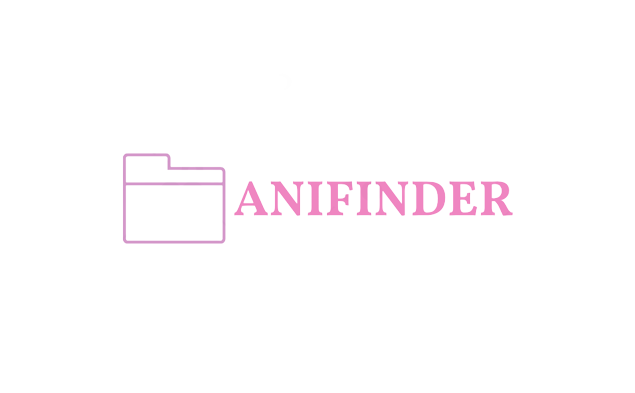
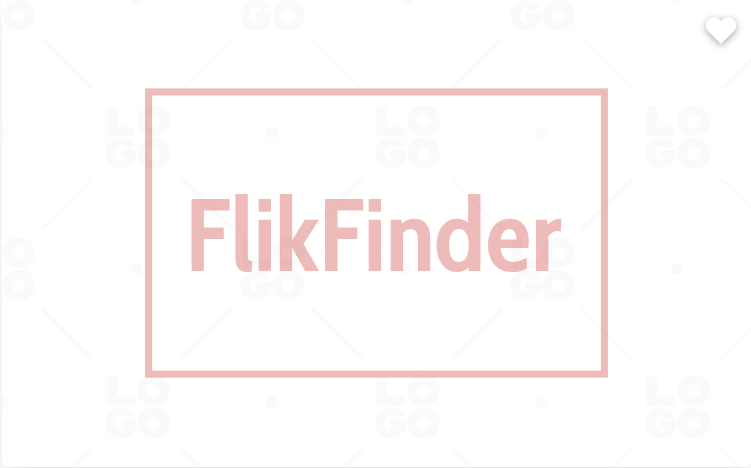
console log bringing up search function, working good, goota make it real now. chagned to movies, api was easier. gotta figure out poster integration too

Changed region(s): [[0.1795, 0.1832, 0.8079, 0.8244], [0.9276, 0.0611, 0.9874, 0.0916]]

diff --git a/index.html b/index.html
@@ -3,7 +3,7 @@
 <head>
     <meta charset="UTF-8">
     <meta name="viewport" content="width=device-width, initial-scale=1.0">
-    <title>Anime API</title>
+    <title>Movie API Proj</title>
     <script src="script.js"></script>
     <link rel="stylesheet" href="anime.css">
     
@@ -11,7 +11,7 @@
 <nav>
     <div class="row navbar__logo">
     <figure class="logo__picture--mask nav__logo">
-     <img src="./assets/Capture.PNG" class="logo__picture">
+     <img src="./assets/movlogo.PNG" class="logo__picture">
     </figure>
     
 </div>
@@ -19,7 +19,7 @@
 <div class="container__nav ">
     <ul class="nav__link--list">
         <li class="nav__li" ><a href="#home" class=" nav__link--anchor click">Home</a></li>
-        <Li class="nav__li" ><a href="#finder" class=" nav__link--anchor-primary click">Anime</a></Li>
+        <Li class="nav__li" ><a href="#finder" class=" nav__link--anchor-primary click">Movies</a></Li>
     </ul>
 </div>
 </div>
@@ -29,11 +29,11 @@
     <div class="container">
         <div class="finder__container">
             <div class="main__header--container">
-                <h1 class="main__header">The Anime Quote Finder Platform</h1>
-                <h2 class="main__subheader">Find Your Quote With <span class="highlight">AniFinder</span></h2>
+                <h1 class="main__header">The Movie Finder Platform</h1>
+                <h2 class="main__subheader">Find Your Flick With <span class="highlight">FLikFinder</span></h2>
             </div>
             <div class="finder__input--holder">
-                <input type="text" placeholder="Search by name, year, or genre" class="finder__input">
+                <input type="text" placeholder="Search by title, year, or genre" class="finder__input" onchange="onSearchChange(event)" id="searchbox">
             <button class="finder__search">🔍</button>
             </div>
     </div>
@@ -42,10 +42,7 @@
 </section>
 
 <section>
-    <div class="container">
-        <button class="random__quote"onclick="randomQuote(event)"> Random </button>
 
-</div>
     <div class="container">
         <div class="row">
           <div class="user-list">
@@ -53,9 +50,9 @@
               <div class="user-card">
                 <div class="user-card__container">
                   <h3>User's Name</h4>
-                    <p><b>Anime:</b> anime</p>
-                    <p><b>Character:</b> character</p>
-                    <p><b>quote:</b> quote</p>
+                    <p><b>Title:</b> Title</p>
+                    <p><b>Rating:</b> rating</p>
+                    <p><b>year:</b> ear</p>
                 </div>
               </div>
             </div>
@@ -67,13 +64,13 @@
 <div class="chibi__container ">
     <div class="chibi__inner">
     <div class="goku">
-        <img src="assets/goku.png" alt="" class="goku__pic">
+        <img src="assets/barbie.png" alt="" class="goku__pic">
     </div>
     <div class="naruto">
-        <img src="assets/naruto.png" alt="" class="naruto__pic">
+        <img src="assets/oppenheimer.jpeg" alt="" class="naruto__pic">
     </div>
     <div class="luffy">
-        <img src="assets/luffy.png" alt=""class="luffy__pic">
+        <img src="assets/miles.jpg" alt=""class="luffy__pic">
     </div>
 </div>
 </div>

diff --git a/script.js b/script.js
@@ -1,32 +1,36 @@
+// http://www.omdbapi.com/?apikey=442a3887&s=
+// 442a3887
+var movieListElem = document.querySelector('.post-list');
 
 
 
 
+//main(name)
+
+async function onSearchChange(event){
+    var search = document.getElementById('searchbox').value
+
+    const id = event.target.value;
+const movies = await fetch(`http://www.omdbapi.com/?apikey=442a3887&s=${search}`)
+const movieData = await movies.json();
+ console.log(movieData);
+//  movieListElem.innerHTML = movieData.map(post=> `
+//     <div class="post">
+//     <div class="post__title">
+//       ${post.title}
+//     </div>
+//     <p class="post__body">
+//       ${post.year}
+//     </p>
+//     <p class="post__body2">
+//     ${post.genre}
+//   </p>
+//     </div>
+//     `).join('');
+    }
 
 
 
 
+    // ??button 
 
-
-
-
-
-
-
-
-
-
-
-
-
-
-
-
-//random
- 
-async function randomQuote(Event){
-    // const id = event.target.value;
-await fetch('https://animechan.xyz/api/random')
-    .then(response => response.json())
-    .then(quote => console.log(quote))
-}

diff --git a/anime.css b/anime.css
@@ -186,13 +186,14 @@ nav {
     font-weight: bold; */
     animation: tada 1050ms ;
     transition: all ease;
+   
 
   }
 
 
   .logo__picture{
-    width: 370px;
-    height: 230px;
+    height: 6.5rem;
+    width: 12rem;
   }
 
   .nav__li{
@@ -342,21 +343,21 @@ background-color: #e5aee1;
 
    }
    .goku__pic{
-    height: 14.5rem ;
-    width: 11rem;
+    height: 16rem ;
+    width: 11.5rem;
     animation: chibi__float 3000ms infinite ease-in-out ;
 }
 
    .naruto__pic{
-    height: 14.5rem ;
-    width: 9.5rem;
+    height: 16rem ;
+    width: 11rem;
     animation: chibi__float  2550ms infinite ease-in-out ;
 
    }
 
    .luffy__pic{
-    height: 14rem;
-    width: 8rem;
+    height: 16rem;
+    width: 11rem;
     animation: chibi__float 3150ms infinite ease-in-out ;
 
    }
